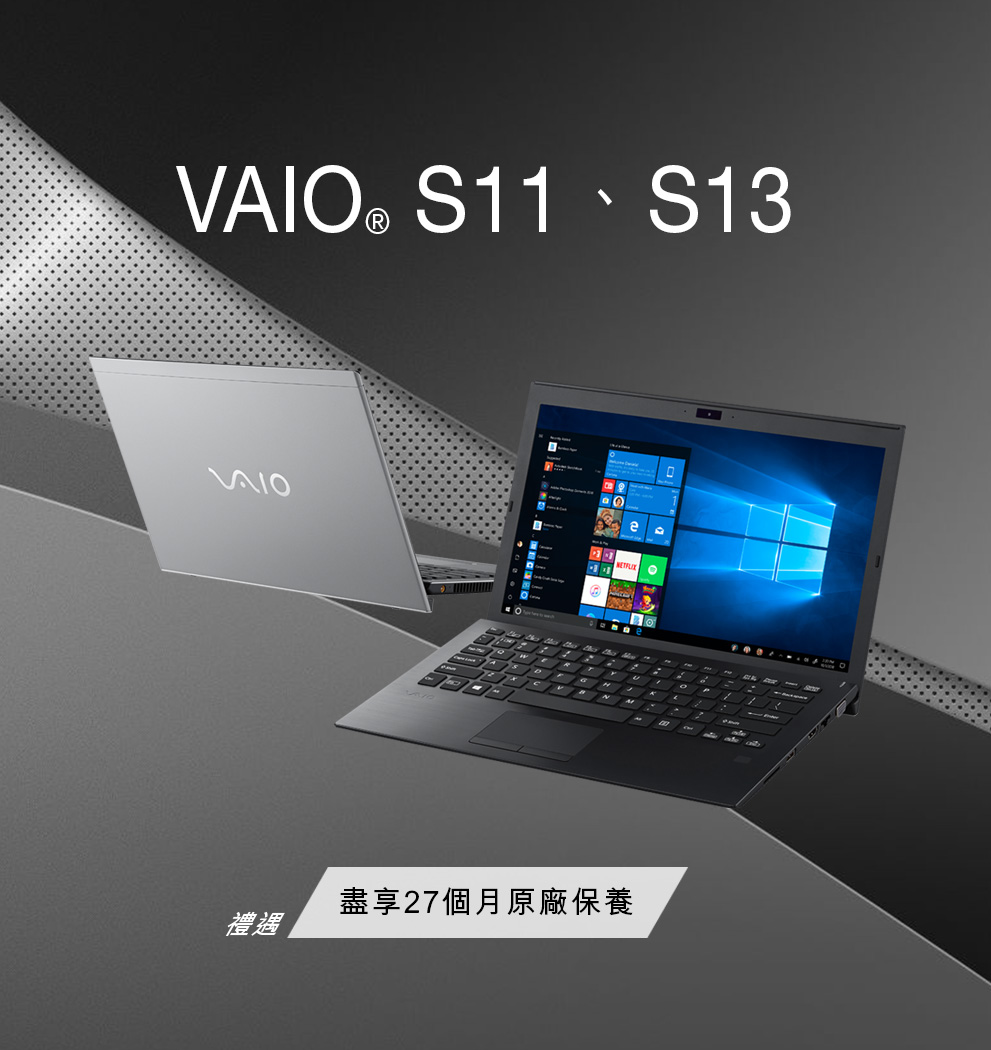
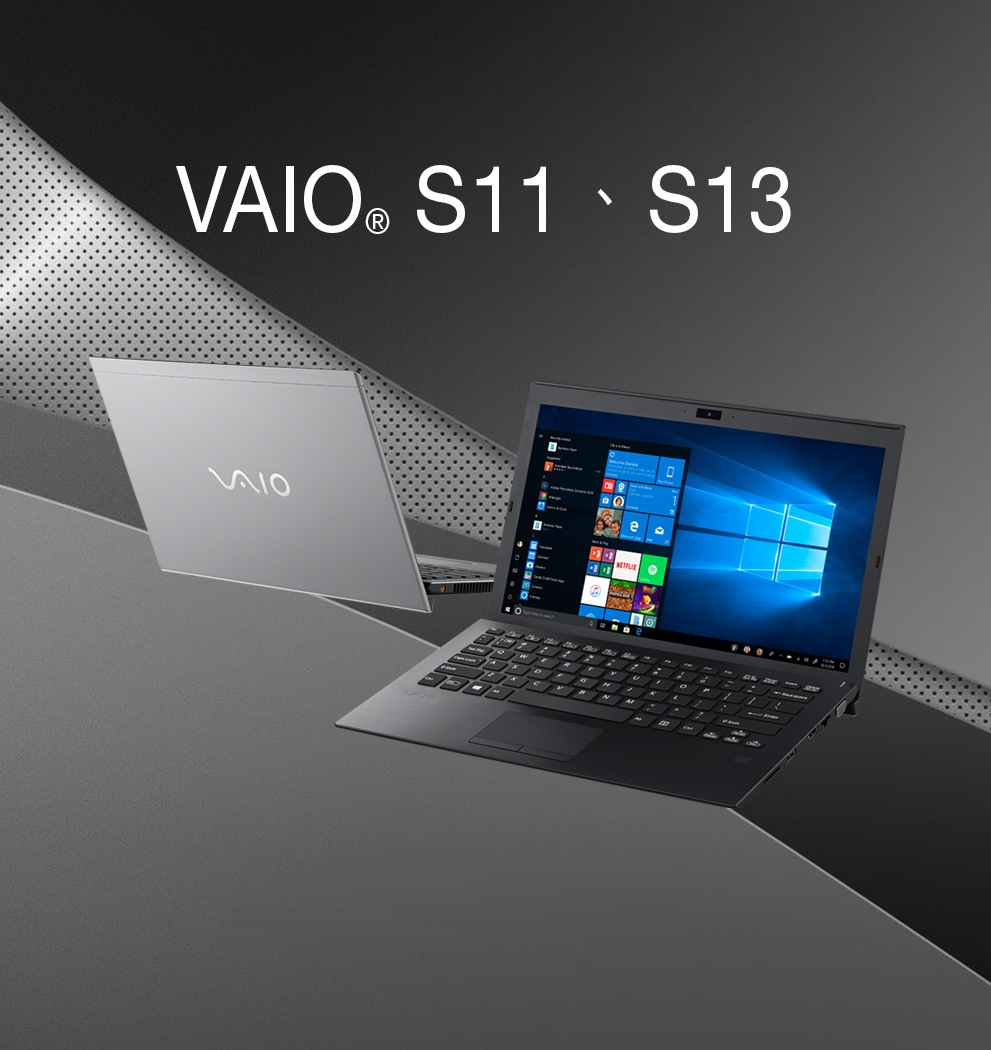
feat: Nov 2026 content update — drop Where to Buy and 'New' wording
- Remove Where to Buy from desktop/mobile nav and footer; delete the page
- Remove 'New'/'NEW' from SX14, SE14 and S11/S13 product copy (en/tc/tw)
- Erase 'New!', '2021 NEW' badge and S11/S13 warranty promo strip from banners

Claude-Session: https://claude.ai/code/session_01VwdsybB1UcjiTs6Xu58TTS

diff --git a/components/navbar-accordian.tsx b/components/navbar-accordian.tsx
@@ -89,14 +89,6 @@ export const NavBarAccordian = () => {
             )}
           </AccordionContent>
         </AccordionItem>
-        <AccordionItem value="item-4">
-          <Link
-            href="/support"
-            className="block py-2 px-3 text-gray-200 rounded hover:bg-gray-700 md:hover:bg-transparent md:border-0 md:hover:text-blue-700 md:p-0"
-          >
-            {t('navbar_where')}
-          </Link>
-        </AccordionItem>
       </Accordion>
     </div>
   );

diff --git a/components/ui/footer.tsx b/components/ui/footer.tsx
@@ -77,11 +77,6 @@ const Footer = () => {
                   </Link>
                 </li>
               </ul>
-              <Link href="/where-to-buy">
-                <h1 className="text-lg font-bold mb-4 border-b-2 mt-4">
-                  {t("where_to_buy")}
-                </h1>
-              </Link>
             </div>
             <div className="flex flex-col items-center">
               <h1 className="text-lg font-bold mb-2">{t("follow_us")}</h1>

diff --git a/components/navbar.tsx b/components/navbar.tsx
@@ -51,13 +51,6 @@ export const NavBar = ({ currPath }: { currPath: string }) => {
                 items={aboutComponents}
               />
             </li>
-            <li>
-              <NavbarNavigationMenu
-                title={t('navbar_where')}
-                items={[]}
-                href="/where-to-buy"
-              />
-            </li>
             {/* <li>
               <NavbarLanguageToggle />
             </li> */}
